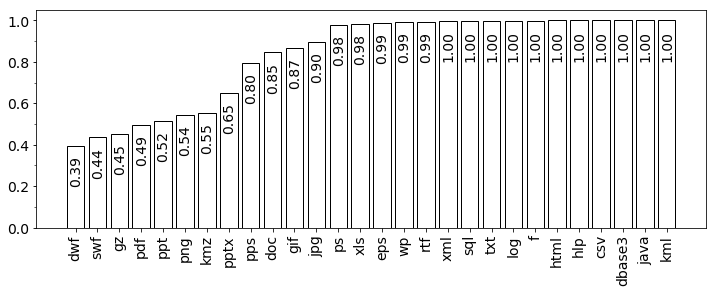
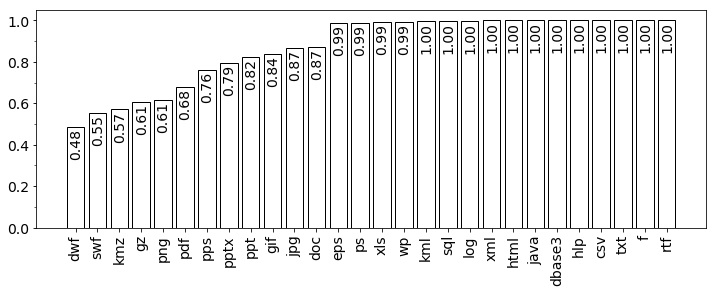
Updates from Overleaf

diff --git a/content/6.1a-measuringmethod.tex b/content/6.1a-measuringmethod.tex
@@ -1,0 +1,42 @@
+% \levelC{Models}
+For this experiment, a new model is created for each considered file type. The input of the model is a one-hot encoded block than may come from a random generator or from the Govdocs1 dataset. Samples from the Govdocs1 dataset are labeled ``structured'', while samples from the random generator are labeled ``random''. The model should predict from which source the sample came.
+
+The 28 file types from the Govdocs1 dataset \cite{garfinkel_bringing_2009} used in chapters \ref{sec:evalmodels} and \ref{sec:numberofclasses} were used in this experiment, placing 100 files in the training dataset and 100 in the validation dataset.
+
+
+The model architecture used in this research, ``CLD'', is described in chapter \ref{sec:evalmodels} and has three layers. The first is a convolutional layer with 256 output units, a window of size 16, and a stride of 16. The second is a LSTM layer of 128 units. The last is a fully-connected layer where the number of output units match the number of classes of the input dataset.
+
+All the trainings used the Adam \cite{kingma_adam:_2014}
+optimization algorithm to guide backpropagation.
+The stopping condition used is 10 epochs without improvement at validation accuracy, using categorical cross entropy loss.
+
+
+\levelC{From data source to measure of entropy}
+There is a difference in the nature of the predetermined labels and the predicted ones. The predetermined labels reflect the data source from which the samples were extracted, while the predicted labels are based on the content of the data. For the random generator, this is not a problem, as this data source only has one kind of data. But the samples from the Govdocs1 dataset may have two kinds of data. For some of the samples, it is expected that the true classification should be ``random'' instead of ``structured''. These are the samples that are too complex to this kind of model, the ones where the model cannot find any pattern. Unfortunately, there is no direct way to know the perfect labels in advance, hence all samples of the Govdocs1 dataset are labeled ``structured''. Thus, it is known that the samples from Govdocs1 dataset have an unknown portion of conditions positives and negatives.
+
+Here, the ``structured'' samples are considered positive and the ``random'' samples are considered negative. Thus the samples that are classified as ``random'' by the model are the sum of the true negatives and the false negatives. Similarly, the samples classified as ``structured'' are the sum of the true positives and the false positives.
+
+The random generator can be used to predict the proportion between false positives and true negatives of the chosen file type from the Govdocs1 dataset. Since the condition negative (which is the sum of false positives and true negatives) are those samples that ideally should be marked ``random'', the classifier should treat them the same way it treats the random generator samples.
+
+In other words, the Govdocs1 dataset for a particular file type is assumed to have a subset of samples that should be labeled ``random'' because the model cannot find patterns in them. Some of those samples may be incorrectly labeled ``structured'' by the model. These are the false positives. But this should happen in the same proportion that the model classify samples from the random generator as ``structured''.
+
+Using this method, the quantity that would best represent the entropy of the dataset would be the $(1-Prevalence)$, where  $Prevalence=\frac{\sum ConditionPositive}{\sum TotalPopulation}$. Unfortunately, without knowing the false negative rate, the best that can be achieved is a range where the maximum entropy value occurs when the false negative rate is zero. Assuming the false negative rate to be zero, the prevalence will be equal to the true positives over the entire population. Thus the entropy range can be calculated using only the accuracy values of the trained model obtained separately on the Govdocs1 dataset and on the random dataset, as shown on equations \ref{eq:TPstart} to \ref{eq:TPend}.
+
+\begin{align}
+\label{eq:TPstart}
+    1-\begin{matrix}
+    Entropy\\
+    measure
+    \end{matrix}
+      &= Govdocs\,True\,Positive \\
+      &= Govdocs\,Predicted\,Positive - Govdocs\,False\,Positive\\
+      &= GovdocsPredPOS - \left(GovdocsPredNEG*\frac{randomPredPOS}{randomPredNEG}\right)\label{eq:TPPred}\\
+      &= GovdocsKerasACC - \frac{(1-GovdocsKerasACC)*(1-randomKerasACC)}{randomKerasACC}
+      \label{eq:TPend}
+\end{align}
+
+In equation \ref{eq:TPPred}, the $(GovdocsPredNEG)$ quantity is the portion of samples marked as ``random'' by the model when classifying samples from the Govdocs1 dataset. The $GovdocsKerasACC$ is the accuracy calculated by Keras during validation of the Govdocs1 dataset. It is not the real accuracy, since this validation consider all samples marked ``random'' as errors. Thus $GovdocsKerasACC = GovdocsPredPOS$. The accuracy calculated by Keras during validation of the random generator consider as correct the samples marked as ``random'', thus $randomKerasACC = randomPredNEG$.
+
+Multiplying $(1-GovdocsKerasACC)$ value by $\frac{(1-randomKerasACC)}{randomKerasACC}$ should give the portion of samples that are erroneous marked as ``structured'' by the model, the false positives. Here it is assumed that $\frac{False\, positive}{True\,negative}$ on the Govdocs dataset is equal to $\frac{randomPredPOS}{randomPredNEG}$ on the random generator.
+
+After this entropy measure is calculated for all the file types, it can be used to estimate the amount of error that can be attributed to the model's inability to recognize structures, testing the proposed hypothesis. For a dataset with balanced file types distribution, this will be the mean of the entropy measures.

diff --git a/content/7-conclusion.tex b/content/7-conclusion.tex
@@ -1,13 +1,18 @@
-The portion of data that could be identified as not random was higher than expected. While some of the errors could be explained by the misinterpretation of high entropy data as random data, this could only explain about 1/3 of the observed errors (16.5\% out of 46\%).
+The research described in this study was divided in three parts.
+In chapter \ref{sec:evalmodels}, during the search for the best model to classify file fragments, an apparent limit on how far this models could be improved was found. This limitation can be also observed in other works, since training the model ``CLD'' with the same file types used in those works resulted in accuracy values similar to theirs.
+
+In chapter \ref{sec:numberofclasses}, the influence
+In chapter \ref{sec:exprandom}
+
+\todo[inline]{contibutions from chap4}
+\todo[inline]{contibutions from chap5}
+\todo[inline]{contibutions from chap6}
+
+The portion of data that could be identified as containing structures was higher than expected. While some of the errors could be explained by the inability of the models to distinguish  high entropy data from random data, this could only explain about 1/3 of the observed errors (12.7\% out of 37\%).
 
 This raises the question of whether the remaning 2/3 of errors could be explained by different file types using the same data structures. This error source comes from the practice of using the extension of the file as the class to each of its parts. An analogy with speech recognition would be to label each syllable of a spoken word using the word as its label and then try to predict the whole word using only a syllable.
 
-Unfortunately, for the file fragmentation task, the potential labels for smaller parts may be less obvious than it is for speech recognition. The best-case scenario would be if the neural network itself could choose the labeling. But evaluating those predicted labels using labels of its own choosing would introduce bias, as it could prefer to create only easy labels. The statement that all file types are composed of ``data'' is correct, but it is unhelpful.
+Unfortunately, for the file fragmentation task, the potential labels for smaller parts may be less obvious than it is for speech recognition. The best-case scenario would be if the neural network itself could choose the labeling. But evaluating those predicted labels using labels of its own choosing would introduce bias, as it could prefer to create only easy labels.
+% The statement that all file types are composed of ``data'' is correct, but it is unhelpful.
 
-
-% Among the examined networks, while many of them satisfy the requirements imposed and could potentially be used by a forensic examiner to create a model to a new file type, the networks that showed the best results are those that use convolutional layers to split and process the input and then use LSTM layers to analyse the series of outputs produced by the convolutional layers. This gives a direct answer to the first research question, ``How does different neural network models compare to each other in terms of training performance and quality of results?''.
-
-% To answer the second question, ``Which neural network models would be more suitable to accept the addition of new filetypes by the forensic examiners community?'', a set of constraints were imposed to the analyzed models. The achieved results can be replicated with little computational power, in a short time period and with limited datasets.
-
-% To create models that recognize new filetypes, a forensic examiner would have to gather a small dataset for each filetype that needs to be recognized. Datasets of 100 files were sufficient to run the experiments in this work, but it is possible that even smaller datasets could be used. Then, a network with two convolutional layers with max pooling followed by a LSTM layer could be used to quickly train a new model, without the requirement of special hardware. In the chosen framework, Keras, the export and import of models can be easily done, so the forensic examiner could export and publish the new model in a public repository.
-
+An additional contribution of this work is the availability of the source code used to generate the results, which is a feature that not all studies provide. It can be used as a basis of comparison in future researches, generating models with the same architecture of those presented here.

diff --git a/content/tables/6.2-pass1.tex b/content/tables/6.2-pass1.tex
@@ -1,0 +1,37 @@
+\begin{table}[!ht]
+    \centering
+    \caption[Entropy measure]{Entropy measure. The GovdocsACC columns contains the accuracy validations values as calculated by Keras on the Govdocs1 dataset, thus considering all samples labeled as ``random'' as errors. The RandomACC column lists the portion of samples from the random generator classified as ``random'' by the model for that file type. The Time and Epoch columns refer to the training session of each model. The GovdocsTP column uses the equation \ref{eq:TPend}, giving the complement of the entropy. GovdocsPrec is simply $GovdocsTP/GovdocsACC$.}
+    \label{tab:pass1}
+\begin{tabular}{|l|l|l|l|l|l|l|}
+\hline
+Category & GovdocsACC & RandomACC & Time   & Epochs & GovdocsTP & GovdocsPrec \\ \hline
+dwf      & 0.528           & 0.914          & 16m16s & 37     & 0.483589  & 0.915888         \\ \hline
+gz       & 0.613           & 0.906          & 16m59s & 37     & 0.572848  & 0.934499         \\ \hline
+swf      & 0.592           & 0.970          & 19m58s & 43     & 0.579381  & 0.978685         \\ \hline
+kmz      & 0.589           & 0.983          & 16m21s & 36     & 0.581892  & 0.987932         \\ \hline
+png      & 0.659           & 0.960          & 19m40s & 46     & 0.644792  & 0.978440         \\ \hline
+pdf      & 0.674           & 0.977          & 29m59s & 70     & 0.666325  & 0.988613         \\ \hline
+pps      & 0.748           & 0.962          & 26m12s & 57     & 0.738046  & 0.986692         \\ \hline
+pptx     & 0.827           & 0.828          & 12m59s & 30     & 0.791063  & 0.956545         \\ \hline
+ppt      & 0.827           & 0.977          & 28m18s & 63     & 0.822927  & 0.995075         \\ \hline
+gif      & 0.848           & 0.991          & 16m40s & 39     & 0.846620  & 0.998372         \\ \hline
+jpg      & 0.865           & 0.990          & 25m31s & 59     & 0.863636  & 0.998424         \\ \hline
+doc      & 0.885           & 0.990          & 14m13s & 31     & 0.883838  & 0.998687         \\ \hline
+eps      & 0.989           & 1.000          & 8m00s  & 19     & 0.989000  & 1.000000         \\ \hline
+ps       & 0.990           & 1.000          & 4m55s  & 11     & 0.990000  & 1.000000         \\ \hline
+xls      & 0.991           & 1.000          & 9m51s  & 23     & 0.991000  & 1.000000         \\ \hline
+sql      & 0.995           & 1.000          & 5m19s  & 11     & 0.995000  & 1.000000         \\ \hline
+kml      & 0.995           & 1.000          & 7m43s  & 16     & 0.995000  & 1.000000         \\ \hline
+log      & 0.998           & 1.000          & 5m19s  & 12     & 0.998000  & 1.000000         \\ \hline
+wp       & 0.998           & 1.000          & 5m19s  & 11     & 0.998000  & 1.000000         \\ \hline
+hlp      & 1.000           & 1.000          & 4m49s  & 11     & 1.000000  & 1.000000         \\ \hline
+rtf      & 1.000           & 1.000          & 5m17s  & 12     & 1.000000  & 1.000000         \\ \hline
+html     & 1.000           & 1.000          & 5m01s  & 11     & 1.000000  & 1.000000         \\ \hline
+f        & 1.000           & 1.000          & 4m50s  & 11     & 1.000000  & 1.000000         \\ \hline
+java     & 1.000           & 1.000          & 5m18s  & 11     & 1.000000  & 1.000000         \\ \hline
+txt      & 1.000           & 1.000          & 4m42s  & 11     & 1.000000  & 1.000000         \\ \hline
+csv      & 1.000           & 1.000          & 5m19s  & 12     & 1.000000  & 1.000000         \\ \hline
+xml      & 1.000           & 1.000          & 5m14s  & 11     & 1.000000  & 1.000000         \\ \hline
+dbase3   & 1.000           & 1.000          & 4m42s  & 11     & 1.000000  & 1.000000         \\ \hline
+\end{tabular}
+\end{table}

diff --git a/content/6-random.tex b/content/6-random.tex
@@ -15,12 +15,13 @@ Before conducting experiments related to the cause of errors, a list of conceiva
     \item Files that contain other files. Some file types need to embed other files. If the inner file is categorized, even if the model finds an unmistakable pattern, it will not match the label, which will be the extension of the outer file. A ``PDF'' file, for example, can embed a ``JPG'' file. If the model predicts ``JPG'' as the class of a portion of this file, it will not match the instance label on the dataset, which would be ``PDF''.
 \end{enumerate}
 
-The first error source, E1, is the focus of this section. In the file fragment classification task, it is expected that some portion of the classifications errors of a given model be caused by its inability to recognize patterns in the data if the data has high entropy. In these situations, even humans may be unable to tell if a sample is valid or if it is random data.
+The first error source, E1, is the focus of this chapter. In the file fragment classification task, it is expected that some portion of the classifications errors of a given model be caused by its inability to recognize patterns in the data if the data has high entropy. In these situations, even humans may be unable to tell if a sample is valid or if it is random data. It may happen that a search for an alternative model lead to better results, but the chances are low, as this type of error is hard to mitigate. 
 
-The second error source, E2, is a situation that could be improved by a better model or more training. Since the model has successfully detected structures, it is conceivable that avoiding misinterpretation of one structure as another is possible. This error source is not explored in this study.
+In the second error source, E2, it is conceivable that avoiding misinterpretation of one structure as another is possible, since the model has successfully detected structures. This error source is not explored in this study. Mitigation of this type of error probably would be achieved through more training or by a search for a better model.
 
-The three last error sources listed above, E3 to E5, are not explored in this study. They are similar in nature, as the last two may be viewed as special cases of E3. 
+The three last error sources listed above, E3 to E5, are not explored in this study. They are similar in nature, as the last two may be viewed as special cases of E3. This type of error is better mitigated through a revision of the labeling system.
 
 % \levelC{Hypothesis}
-The goal of this experiment is to test the \textbf{hypothesis that part of the errors of file fragment classification can be explained by the existence of data that has no structure detectable by the model}. Not all file types possess this kind of data, and on those that do, they should compose only a portion of the file.
+The goal of the experiment of this chapter is to test the \textbf{hypothesis that part of the errors of file fragment classification can be explained by the existence of data that has no structure detectable by the model}. Not all file types have this kind of data, and on those that do, they should compose only a portion of the file.
 
+% Two methods are described next. The measuring method results in a number that can be used as a measure of entropy. The filtering method can be used to filter the original dataset, leaving only samples that have recognizable structures.

diff --git a/content/6.3-discussion.tex b/content/6.3-discussion.tex
@@ -1,9 +1,13 @@
 Having a minimum number of recognizable structures for each file type, it is now possible to calculate the maximum number of the classification errors that can be attributed to error cause E1, which happens when the complexity of the data is beyond the model’s capability to recognize patterns.
 
-The mean accuracy for all file types, using data listed in figure 6, is 83.5\% \todo{check}.  Assuming a dataset with balanced classes, if all the blocks considered random data were misclassified, then the maximum amount of error due to data complexity would be 16.5\%. If all blocks considered random were classified as DWG, which is the class with less recognizable patterns, then the maximum amount of error would be 14.3\%.
+The mean true positive estimate for all file types, using data listed in figure \ref{fig:not_random}, is 87.3\%.  Assuming a dataset with balanced classes, if all the blocks considered random data were misclassified, then the maximum amount of error due to data complexity would be 12.7\%. If all blocks considered random were classified as DWG, which is the class with less recognizable patterns, then the maximum amount of error would be 10.9\%.
+
+Since the higher validation accuracy obtained in chapter \ref{sec:evalmodels} for these 28 file types using the ``CLD'' models was 0.63, that model has an error rate of 37\%. But only 12.7\% of those error can be attributed to the error cause E1, which happens when the model is unable to detect structures in the data.
+
+The hypothesis proposed in this chapter is only partially confirmed: some of the errors can be attributed to error cause E1, but only to some extent. About 2/3 of the errors cannot be explained by error cause E1. Since the false negative assumption was used, 2/3 may be an underestimation.
 
 
-\levelC{Limitations and threats to validity}
-The procedure applied in this experiment avoids false positives over false negatives. In other words, it avoids random data classified as structured at the cost of missing potentially recognizable structures at valid fragments. Thus, it is expected that the exact valid fragments count, which is unknown in practice, will be higher than the number obtained. Taking the JPG file type as an example, in which 90\% of the blocks were identified as ``structured'', this means that the true randomness value is some unknown value between 0 and 10\%.
+% \levelC{Limitations and threats to validity}
+The procedure applied in this experiment uses the no false negative assumption, which considers that no sample with recognizable structures are erroneous classified as ``random''. Thus, it is expected that the exact valid fragments count, which is unknown in practice, will be higher than the number obtained. Taking the JPG file type as an example, in which 87\% of the blocks were identified as ``structured'', this means that the true entropy value would be some unknown value between 0 and 13\%.
 
 Also, it is important to notice that the use of different network architectures will result in different randomness values, as their ability to recognize patterns in the data will be different.

diff --git a/content/6.2-results.tex b/content/6.2-results.tex
@@ -1,6 +1,3 @@
-% \levelC{Dataset}
-This study uses the Govdocs1 dataset \cite{garfinkel_bringing_2009}, which was fully downloaded and its files were grouped by extension. This dataset has files with 63 different extensions. The 33 extensions with less than 200 files were discarded. The  ``text'' and ``unk'' extensions were discarded because files with these extensions use multiple formats and they do not correspond to a single file type. From the remaining 28 extensions, listed in table \ref{tab:govdocs1}, 200 files of each were randomly selected, 100 to use in the training dataset and 100 to use in the validation dataset.
-
 % \levelC{Hardware}
 The experiments did not take advantage of GPU acceleration and were  conducted on a single computer with 256GB of RAM and with 2 Intel\textregistered Xeon\textregistered E5-2630 v2 processors, with 6 cores each, with 2 hyper-threads per core, or 24 hyper-threads in total. 
 
@@ -9,17 +6,17 @@ The experiments did not take advantage of GPU acceleration and were  conducted o
 The main software and frameworks used to build the experiments were Python 3.6, Jupyter notebook, Tensorflow 1.14.0, Keras 2.2.4-tf, and Fedora Linux 27.
 
 % repository
-The source code for the experiments is available at \sloppy\url{http://github.com/atilaromero/randomness-experiments}.
+The source code for the experiments is available at \sloppy\url{http://github.com/atilaromero/carving-experiments}.
 
 
-% \levelC{Results}
-For some file types, training achieved an accuracy higher than 98\% on the first pass. These are the file types where a model should have no difficulty finding patterns. For the remaining file types, all achieved an accuracy higher than 98\% on the second pass, which is fortunate, as this avoids the need to use further passes and  simplifies calculations.
+\input{content/tables/6.2-pass1.tex}
+
+The results obtained are shown in table \ref{tab:pass1}. The entropy measure is the complement of the GovdocsTP column.
 
 Figure \ref{fig:not_random} shows, for each file type, the percent of 512-byte fragments identified as ``structured'', from a sample of 1000 fragments for each file type.
 
 \noindent
 \begin{figure*}[htb!]
 \centering\includegraphics[width=1.0\textwidth]{content/random.png}
-\caption{\label{fig:not_random}Validation accuracy of models trained to distinguish each file type from random data. The 90\% accuracy of JPG, for example, means that recognizable patterns were found on 90\% of the blocks of the JPG dataset.}%
+\caption[]{\label{fig:not_random}Estimate of percentage of samples with recognizable structures, using models trained to distinguish each file type from random data. The 87\% value for JPG, for example, means that up to 87\% of the blocks of the JPG dataset have recognizable patterns. Since the assumption of no false negatives was used, the real value, which is unknown, can be lower. The entropy measure proposed is the complement of this value, for example, 13\% for JPG.}%
 \end{figure*}
-

diff --git a/content/6.1b-filtermethod.tex b/content/6.1b-filtermethod.tex
@@ -1,0 +1,18 @@
+This section describes an alternative to the method presented in the previous section. Instead of calculating the proportion of true positives in the population, the samples of the Govdocs1 dataset that are labeled ``structured'' are used as input to train a second model, that will be used to validate the first model.
+
+% \levelC{Dataset}
+The model training was divided into two passes, depicted in figure \ref{fig:randommeasure}. Each pass trains a different model for each file type. In the first pass, the dataset creation for a given file type follows the same procedure mentioned in the previous section.
+
+\noindent
+\begin{figure*}[htb!]
+\centering\includegraphics[width=0.5\textwidth]{content/random_measure.png}
+\caption{\label{fig:randommeasure}Example of the random measure for the JPG file type. In pass 1, a model is trained to classify the data as ``random'' or ``structured'', achieving 87\% accuracy. In pass 2, another model is trained to do the same task, but the JPG blocks used are those classified as ``structured'' by model 1. As model 2 achieves an accuracy of 99\%, it validates that almost all the blocks classified as ``structured'' by model 1 are indeed not random. Then model 1 can be used to make an upper boundary estimate of the randomness of the dataset.}%
+\end{figure*}
+\todo[inline]{update figure and label to reflect results}
+
+When the model training finishes the fist pass, if the validation accuracy is above a predefined threshold (98\% in this study) for a given file type, no further passes are required by that file type, as the model already can distinguish between ``random'' and ``structured'' classes for that particular file type. This will only happen on file types that have almost no random-like structures.
+
+In the second pass, the file type dataset is filtered and only those fragments classified as ``structured'' in the first pass are used in the second pass. The random generator does not require similar filtering. If in the second pass the accuracy is above the predefined threshold, it means that the first pass successfully selected samples that have almost no random-like structures. In that case, the model of the first pass can then used in the original dataset, giving a count of how many fragments are correctly identified as ``structured''. In this particular case, the model of the fist pass can be used to filter the dataset, hence the method name, as it can split the data with almost no false positives.
+
+If the second pass accuracy is below the threshold, the equations used in the previous section can be used on the results of the second pass, to avoid futher passes.
+

diff --git a/content/0-sections.tex b/content/0-sections.tex
@@ -77,7 +77,10 @@
     \input{content/6-random.tex}
 
     \levelB{Method}
-    \input{content/6.1-method.tex}
+    \input{content/6.1a-measuringmethod.tex}
+
+    % \levelB{Filtering method}
+    % \input{content/6.1b-filtermethod.tex}
 
     \levelB{Results}
     \input{content/6.2-results.tex}
